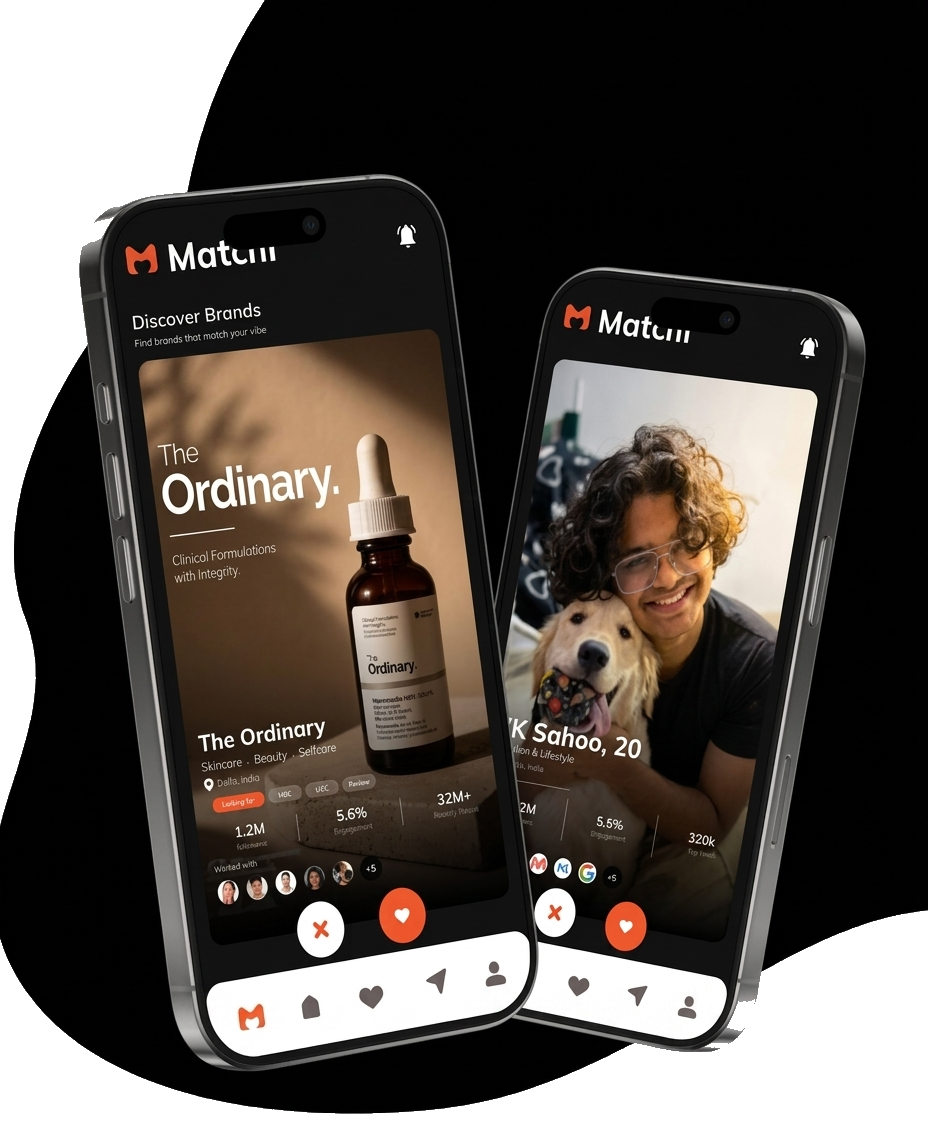
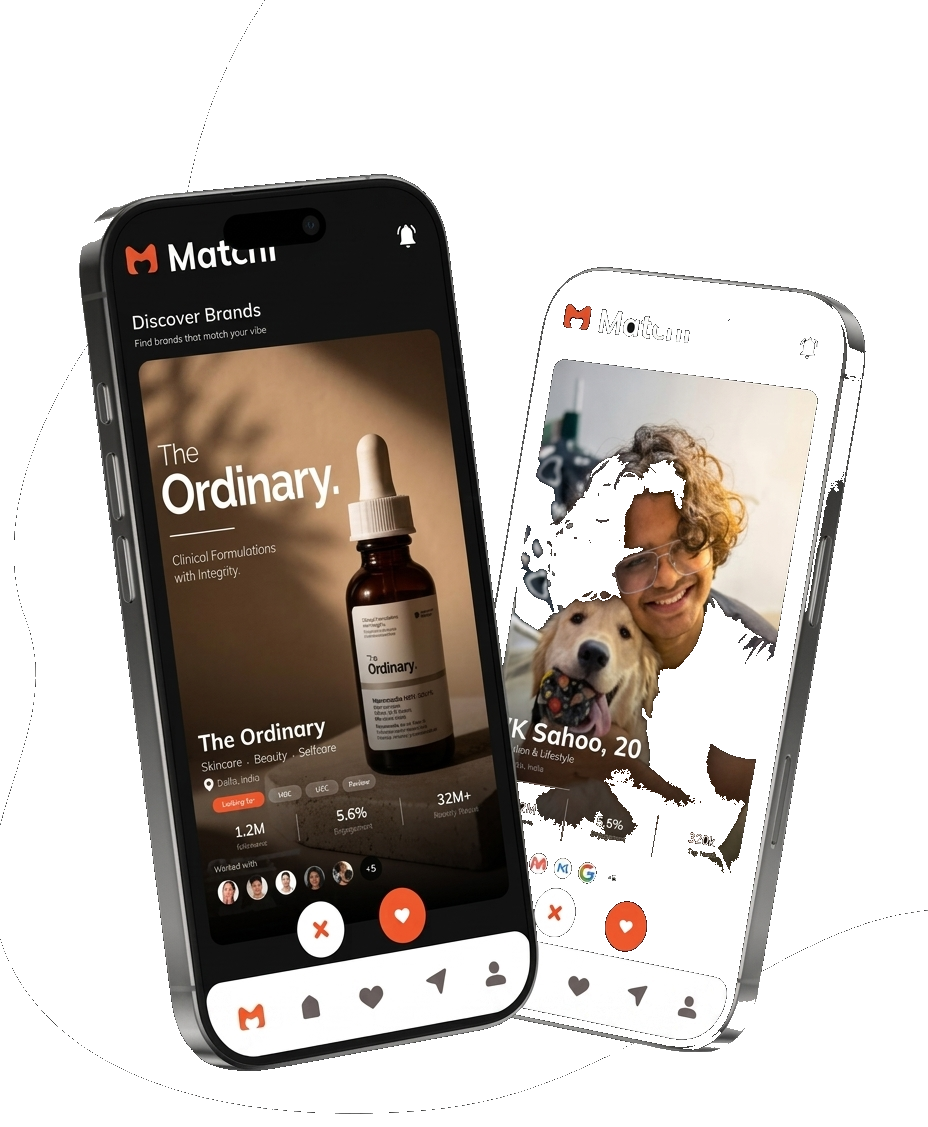
Update hero images and fix layout zoom constraints

diff --git a/app/globals.css b/app/globals.css
@@ -346,12 +346,22 @@ img {
 }
 
 .hero__phones-image {
-  width: 120%;
+  width: 500%;
+  max-width: none;
   height: auto;
   object-fit: contain;
   z-index: 1;
-  mix-blend-mode: darken;
-  transform: translate(10%, -10%);
+  mix-blend-mode: multiply;
+  transform: translate(31%, -15%);
+}
+
+/* Show desktop image only on desktop, mobile image only on mobile */
+.hero__phones-image--mobile {
+  display: none;
+}
+
+.hero__phones-image--desktop {
+  display: block;
 }
 
 .button {
@@ -1335,7 +1345,10 @@ img {
     zoom: 1;
   }
 
-  .page-shell, .hero, .section, .footer {
+  .page-shell,
+  .hero,
+  .section,
+  .footer {
     padding-left: 20px !important;
     padding-right: 20px !important;
     overflow-x: hidden;
@@ -1346,19 +1359,26 @@ img {
     padding-bottom: 60px !important;
   }
 
+  .nav-wrapper {
+    min-width: 100%;
+    width: 100%;
+    top: 12px;
+    padding-right: 16px;
+    padding-left: 16px;
+    justify-content: stretch;
+  }
+
   .floating-nav {
-    top: 16px;
-    right: 16px;
-    left: 16px;
-    width: calc(100% - 32px);
+    width: 100%;
     justify-content: space-between;
-    padding: 8px 16px;
+    padding: 8px 12px 8px 20px;
     gap: 0;
     backdrop-filter: blur(24px);
     -webkit-backdrop-filter: blur(24px);
     border-radius: 40px;
     box-shadow: 0 8px 32px rgba(0, 0, 0, 0.08);
-    background: rgba(255, 255, 255, 0.85);
+    background: rgba(255, 255, 255, 0.9);
+    min-height: 56px;
   }
 
   .floating-nav a:not(.button) {
@@ -1367,21 +1387,20 @@ img {
 
   .floating-nav::before {
     content: "Matchr";
-    font-size: 20px;
+    font-size: 18px;
     font-weight: 800;
     font-family: var(--font-mulish), sans-serif;
     color: #000;
-    margin-left: 12px;
   }
 
   .floating-nav .button--nav {
-    width: 140px;
-    height: 48px;
-    font-size: 16px;
+    width: 120px;
+    height: 44px;
+    font-size: 15px;
   }
 
   .hero {
-    padding-top: 120px !important; 
+    padding-top: 120px !important;
     min-height: auto;
     text-align: center;
     display: flex;
@@ -1438,6 +1457,10 @@ img {
     margin: 40px 0 0 0;
     display: flex;
     justify-content: center;
+    background: #ffffff;
+    border-radius: 24px;
+    overflow: visible;
+    padding: 24px 0 0;
   }
 
   .hero__phones-image {
@@ -1445,6 +1468,21 @@ img {
     height: auto;
     transform: none;
     margin-top: 0;
+    mix-blend-mode: multiply;
+  }
+
+  .hero__phones-image--desktop {
+    display: none;
+  }
+
+  .hero__phones-image--mobile {
+    display: block;
+    width: 180%;
+    max-width: 180%;
+    height: auto;
+    transform: none;
+    mix-blend-mode: multiply;
+    margin: 0 -40%;
   }
 
   .trust-strip {
@@ -1488,7 +1526,9 @@ img {
     text-align: center;
   }
 
-  .intro-section__top h2, .section h2, .cta-section h2 {
+  .intro-section__top h2,
+  .section h2,
+  .cta-section h2 {
     font-size: 40px;
   }
 
@@ -1539,7 +1579,9 @@ img {
     border-radius: 0 0 32px 32px;
   }
 
-  .how-section__heading p, .section-heading p, .cta-section p {
+  .how-section__heading p,
+  .section-heading p,
+  .cta-section p {
     font-size: 18px;
     text-align: center;
   }
@@ -1628,7 +1670,7 @@ img {
 
   .feature-card__overlay {
     height: 120px !important;
-    background: linear-gradient(to top, rgba(0,0,0,0.85) 0%, transparent 100%) !important;
+    background: linear-gradient(to top, rgba(0, 0, 0, 0.85) 0%, transparent 100%) !important;
   }
 
   .feature-card__content {
@@ -1661,7 +1703,7 @@ img {
   .feature-card__icon:not(:first-child) {
     margin-left: -16px;
   }
-  
+
   .cta-section {
     padding-top: 80px;
     padding-bottom: 80px;
@@ -1669,6 +1711,7 @@ img {
     text-align: center;
   }
 }
+
 /* ─── MODERN FOOTER ─── */
 .footer-modern {
   background-color: #050505;
@@ -1753,6 +1796,7 @@ img {
     flex-direction: column;
     gap: 40px;
   }
+
   .footer-modern__links {
     gap: 40px;
     flex-direction: column;

diff --git a/app/page.tsx b/app/page.tsx
@@ -295,8 +295,13 @@ export default function HomePage() {
             <div className="hero__phones" style={{ position: 'relative', display: 'flex', alignItems: 'flex-start', justifyContent: 'flex-end' }}>
               <img
                 alt="Hero App Layout"
-                src="/Gemini_Generated_Image_56h0uw56h0uw56h0.png"
-                className="hero__phones-image"
+                src="/download.png"
+                className="hero__phones-image hero__phones-image--desktop"
+              />
+              <img
+                alt="Hero App Layout"
+                src="/Firefly_RemoveBackground.png"
+                className="hero__phones-image hero__phones-image--mobile"
               />
             </div>
           </div>
